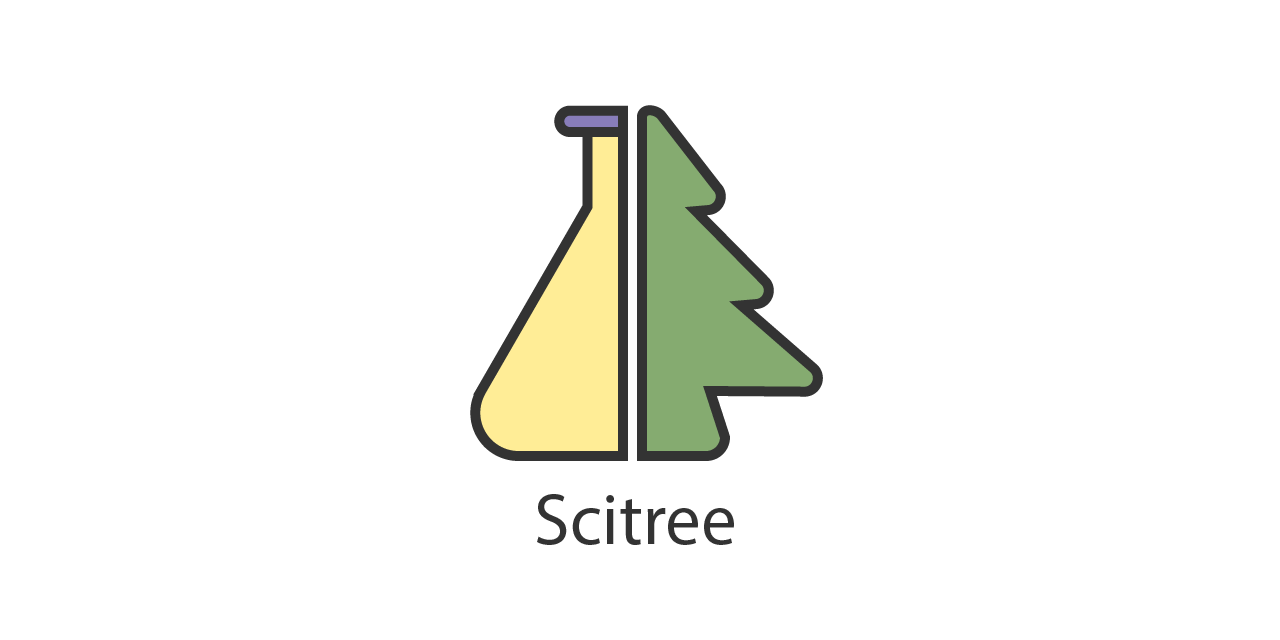
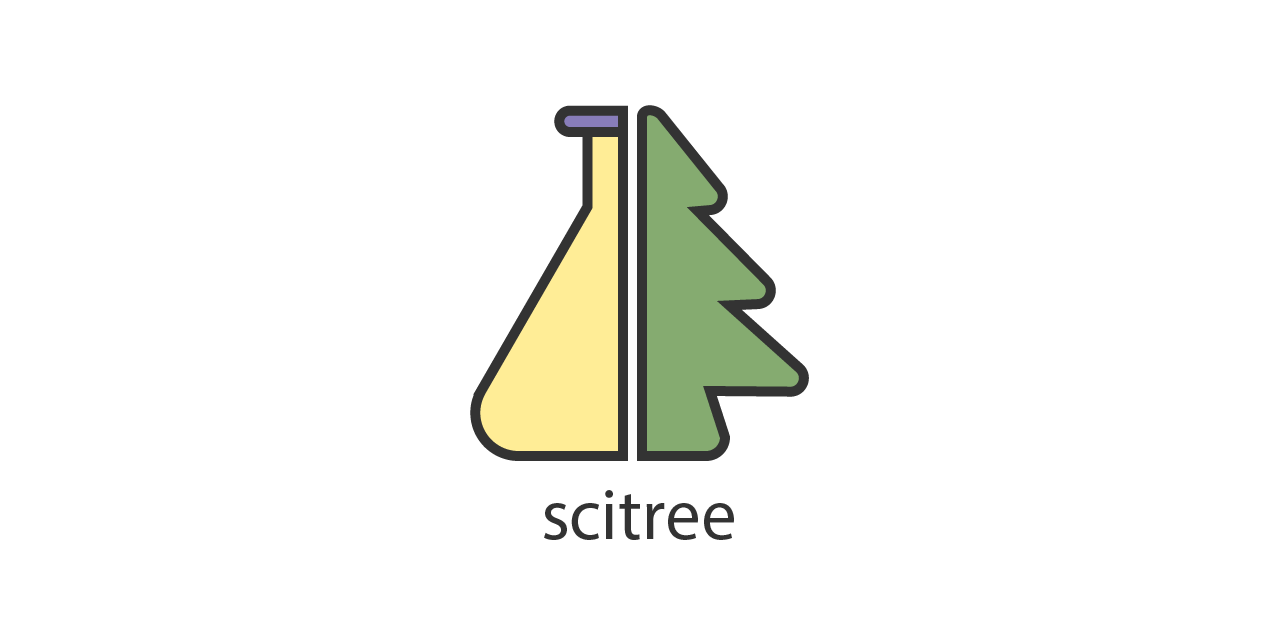
Change repocard to SVG

diff --git a/README.md b/README.md
@@ -1,4 +1,4 @@
-[![scitree_repocard.png](https://github.com/J535D165/scitree/raw/main/scitree_repocard.png)](github.com/j535d165/scitree)
+[![scitree_repocard.png](https://github.com/J535D165/scitree/raw/main/scitree_repocard.svg)](github.com/j535d165/scitree)
 
 # Scitree - Like `tree`, but optimized for science
 
